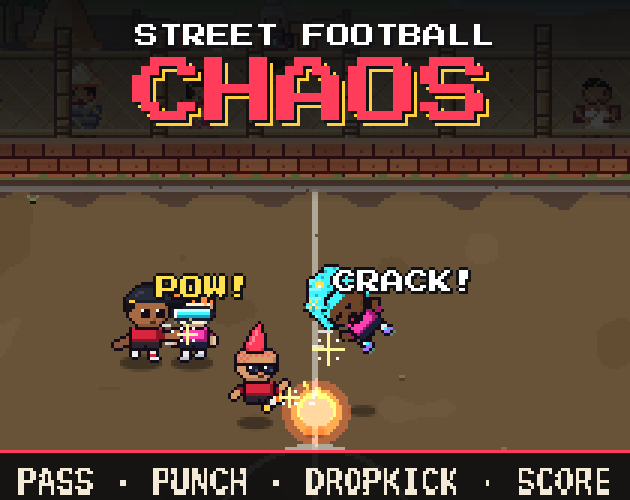
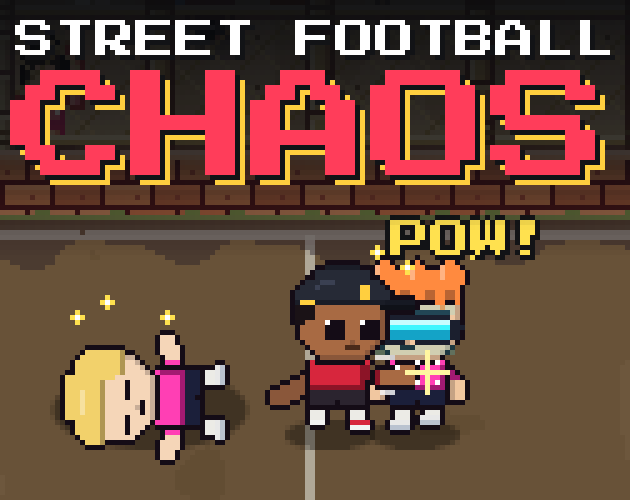
feat: Improve cover art

diff --git a/tools/itch-page/generate.js b/tools/itch-page/generate.js
@@ -75,6 +75,35 @@ function run() {
   function launched(ctx, team, x, y, airZ, lk) {
     SFC.Renderer.airborne(ctx, { x, y, airZ, kbx: 320, kby: -40, state: 'stun', anim: 0.42, facing: Math.PI, team, look: lk, vx: 0, vy: 0, flash: 0 }, stub);
   }
+  // bị đá ngã nằm sõng soài: pha "sprawl" của PlayerSprite.flyState chỉ có sau khi đã bay rồi chạm đất -> cho cùng 1 cầu thủ bay, chạm đất, rồi vẽ.
+  // dir 1 = bị hất sang phải (đầu nằm về bên phải). Sao choáng của sprite xoay ngang theo thân (thành 1 cột cạnh đầu) -> vẽ 2 bản:
+  // bản không cờ choáng (không sao, mắt mở) làm nền, chép vùng mặt (mắt gạch choáng) từ bản có cờ choáng; sao đứng vẽ riêng (stunStars)
+  function lying(ctx, team, x, y, lk, dir = 1) {
+    const draw = (dazed) => {
+      const p = { x, y, vx: 0, vy: 0, facing: Math.PI, anim: 0, flash: 0, state: 'stun', stateT: 1.6, team, look: lk, airZ: 10, kbx: 320 * dir, kby: 0 };
+      SFC.PlayerSprite.flyState(p);
+      p.anim = 0.5; p.airZ = 0;
+      SFC.PlayerSprite.flyState(p);
+      p.anim = 0.8;
+      if (!dazed) { p.fly = SFC.PlayerSprite.flyState(p); p.state = 'normal'; }
+      const c = canvas(ctx.canvas.width, ctx.canvas.height);
+      S.drawPlayer(c.getContext('2d'), p, stub);
+      return c;
+    };
+    const fw = 24, fx = dir < 0 ? x - 21 : x - 3, fy = y - 26;   // vùng mặt: đầu nằm về phía dir, sao của sprite ở ngoài mép đầu
+    const plain = draw(false), dazed = draw(true), pc = plain.getContext('2d');
+    pc.clearRect(fx, fy, fw, 30);
+    pc.drawImage(dazed, fx, fy, fw, 30, fx, fy, fw, 30);
+    ctx.drawImage(plain, 0, 0);
+  }
+  // sao choáng như PlayerSprite3 (dấu + vàng, tâm trắng) quay quanh (cx, cy): khung nằm sõng soài không vẽ sao
+  function stunStars(ctx, cx, cy, phase = 0.4) {
+    const { px } = S;
+    for (let i = 0; i < 3; i++) {
+      const a = phase * 6 + (i * Math.PI * 2) / 3, sx = cx + Math.round(Math.cos(a) * 11), sy = cy + Math.round(Math.sin(a) * 2);
+      px(ctx, sx - 1, sy, 3, 1, '#ffe14f'); px(ctx, sx, sy - 1, 1, 3, '#ffe14f'); px(ctx, sx, sy, 1, 1, '#ffffff');
+    }
+  }
   function spark(ctx, x, y) {
     const { px } = S;
     px(ctx, x - 5, y, 11, 1, '#fff6a0'); px(ctx, x, y - 5, 1, 11, '#fff6a0');
@@ -87,6 +116,7 @@ function run() {
     mate: look({ cut: 'cap', face: 'none', shoes: 'reds', skin: skins[2] }),
     rival: look({ cut: 'afro', hair: '#3ff6ff', skin: skins[3], shoes: 'neonkick' }),
     rival2: look({ cut: 'spiky', hair: '#ff8a3f', face: 'visor', skin: skins[0] }),
+    ko: look({ cut: 'bowl', hair: '#f2d16b', skin: skins[4] }),
   };
 
   // cảnh hành động trên nền sân thật (toạ độ sân gốc 640x360)
@@ -119,29 +149,24 @@ function run() {
     save('banner.png', upscale(b, 2));
   }
 
-  /* ---------- cover 630x500 (vẽ 210x167, phóng x3, cắt 1 hàng) ---------- */
+  /* ---------- cover 630x500 (vẽ 126x100, phóng x5): cận cảnh 1 cú đấm POW! trên sân làng ----------
+   * Cận để người to ở cỡ ô duyệt game của itch (315x250); itch đã in tên + mô tả dưới ảnh nên không có dải chữ dưới */
   {
     const full = scene('village', (x) => {
-      player(x, 1, 279, 140, Math.PI, LOOK.rival2, POSE.stun);
-      player(x, 0, 262, 140, 0, LOOK.mate, POSE.punch);
-      player(x, 0, 300, 160, 0, LOOK.hero, POSE.dropkick);
-      S.drawBall(x, { x: 320, y: 163, z: 3, roll: 1, fx: { fire: {} }, skin: null });
-      launched(x, 1, 336, 156, 20, LOOK.rival);
-      spark(x, 324, 136);
-      comic(x, 'CRACK!', 350, 110, '#ffffff');
-      comic(x, 'POW!', 283, 112, '#ffe14f');
+      lying(x, 1, 421, 174, LOOK.ko, -1);
+      stunStars(x, 409, 146);
+      player(x, 1, 469, 170, Math.PI, LOOK.rival2, POSE.stun);
+      player(x, 0, 452, 170, 0, LOOK.mate, POSE.punch);
+      comic(x, 'POW!', 480, 128, '#ffe14f');
     });
-    const b = crop(full, 215, 20, 210, 167), x = b.getContext('2d');
-    // dải tối trên (logo) + dưới (tagline)
-    const top = x.createLinearGradient(0, 0, 0, 60);
-    top.addColorStop(0, 'rgba(10,11,14,0.92)'); top.addColorStop(0.75, 'rgba(10,11,14,0.7)'); top.addColorStop(1, 'rgba(10,11,14,0)');
-    x.fillStyle = top; x.fillRect(0, 0, 210, 60);
-    x.fillStyle = 'rgba(10,11,14,0.88)'; x.fillRect(0, 150, 210, 17);
-    x.fillStyle = RED; x.fillRect(0, 150, 210, 1);
-    text(x, 'STREET FOOTBALL', 105, 8, 8, '#ffffff', { align: 'center', shadows: [[1, 1, INK]] });
-    text(x, 'CHAOS', 104, 19, 24, RED, { align: 'center', shadows: [[1, 1, INK], [2, 2, GOLD]] });
-    text(x, 'PASS · PUNCH · DROPKICK · SCORE', 105, 152, 16, PAPER, { font: VT, align: 'center' });
-    save('cover.png', upscale(b, 3, 630, 500));
+    const b = crop(full, 386, 84, 126, 100), x = b.getContext('2d');
+    // dải tối sau logo
+    const top = x.createLinearGradient(0, 0, 0, 46);
+    top.addColorStop(0, 'rgba(10,11,14,0.92)'); top.addColorStop(0.7, 'rgba(10,11,14,0.65)'); top.addColorStop(1, 'rgba(10,11,14,0)');
+    x.fillStyle = top; x.fillRect(0, 0, 126, 46);
+    text(x, 'STREET FOOTBALL', 63, 4, 8, '#ffffff', { align: 'center', shadows: [[1, 1, INK]] });
+    text(x, 'CHAOS', 62, 14, 24, RED, { align: 'center', shadows: [[1, 1, INK], [2, 2, GOLD]] });
+    save('cover.png', upscale(b, 5));
   }
 
   /* ---------- logo trong suốt (đầu phần mô tả) ---------- */
